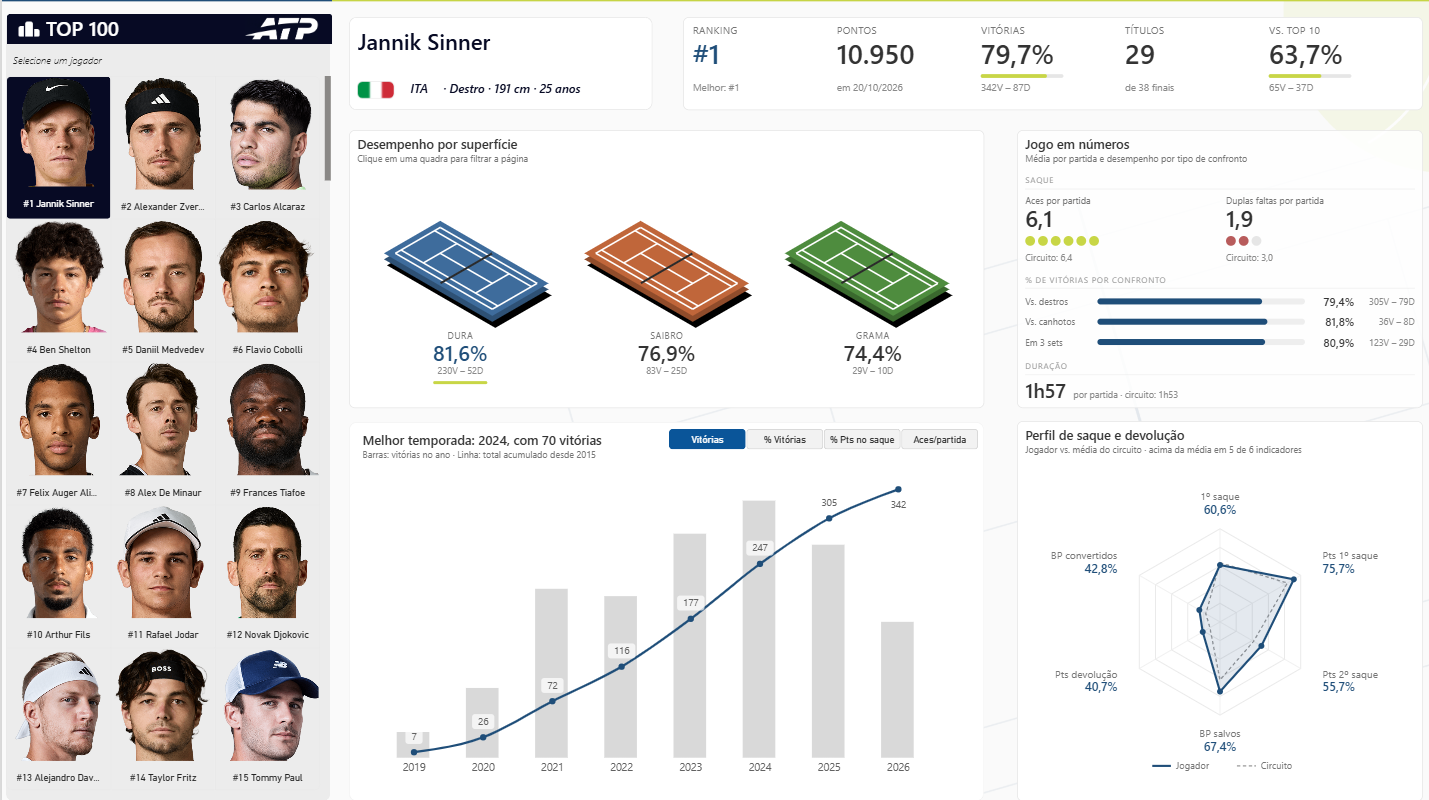
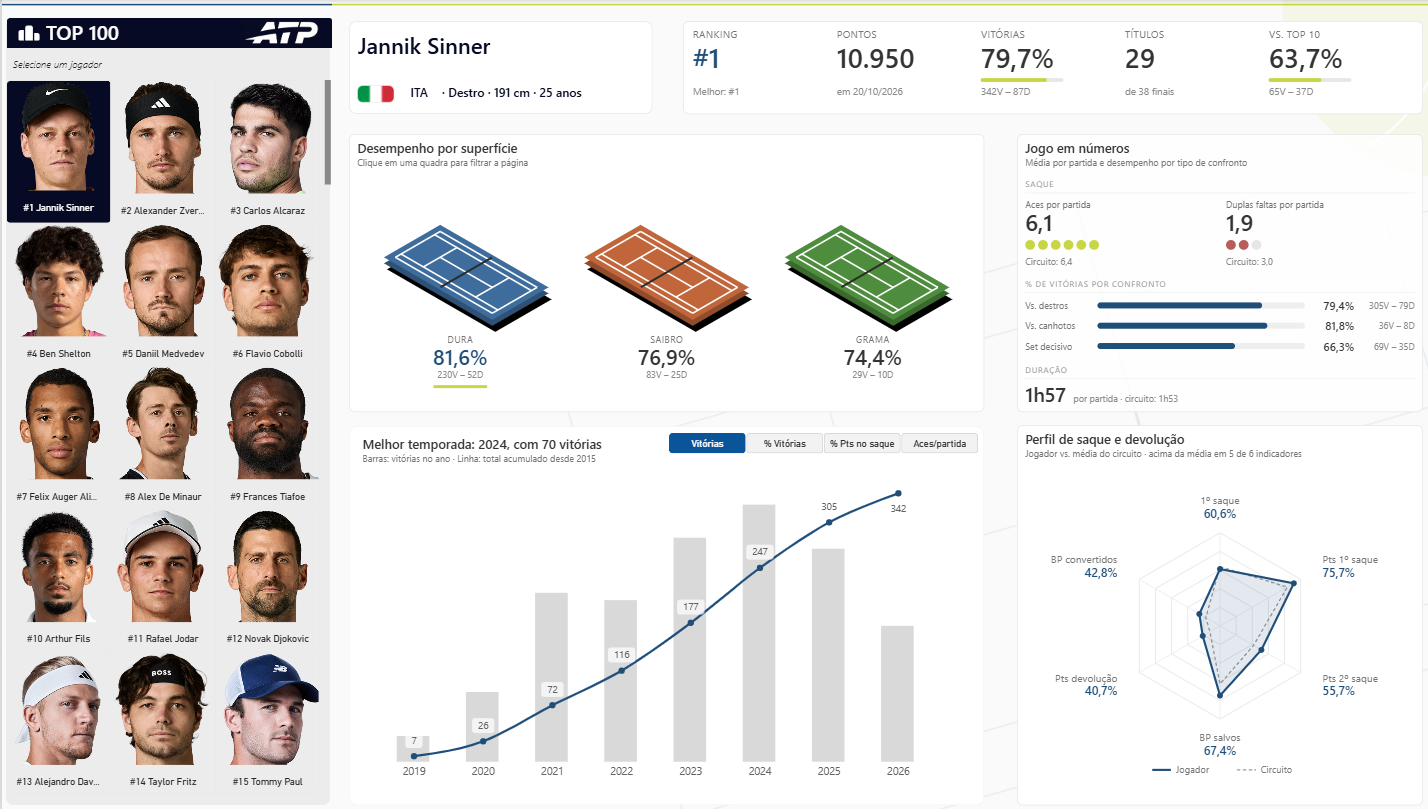
Troca 'em 3 sets' por 'set decisivo' e atualiza o dashboard
- Gold ganha melhor_de e a coluna set_decisivo (3º set em melhor de 3, 5º em melhor de 5)
- Medidas de vitórias/derrotas em sets decisivos substituem as de 3 sets
- d_Rodada inclui a rodada R128 dos Grand Slams
- READMEs e print do dashboard atualizados

Claude-Session: https://claude.ai/code/session_019LZeNctEkZ6zdxPpXWT5qq

diff --git a/README.pt-BR.md b/README.pt-BR.md
@@ -87,7 +87,7 @@ Toda a limpeza é feita na camada Silver, nesta ordem:
     - `Def.` padronizado para `DEF` no placar.
 6. **Valores impossíveis:** durações acima de 300 minutos convertidas em `null` (duas partidas em melhor de 3 registradas com 987 e 1.146 minutos).
 7. **W.O.:** as partidas com W.O. (190) ficam sem duração e sem estatísticas de saque, já que não foram disputadas.
-8. **Perfil da partida:** derivado do placar — forma de término (normal, abandono, W.O., desclassificação), número de sets disputados e número de tie-breaks.
+8. **Perfil da partida:** derivado do placar — forma de término (normal, abandono, W.O., desclassificação), número de sets disputados e número de tie-breaks. Na camada Gold, a coluna `set_decisivo` marca as partidas que foram até o último set possível.
 9. **Nomes das colunas** traduzidos para português em `snake_case` (por exemplo, `w_1stWon` → `pontos_ganhos_primeiro_saque_vencedor`).
 10. **Tipagem:** aplicada no final com uma função de tipagem segura (`fxTipoSeguro`). A data é convertida do formato `yyyyMMdd`, e a idade é lida com a cultura `en-US`, para que `25.5` não vire `255` na localidade `pt-BR`.
 
@@ -97,7 +97,7 @@ Modelo em estrela, com uma tabela fato (uma linha por partida) e as dimensões.
 
 | Tabela | Tipo | Granularidade / conteúdo |
 |---|---|---|
-| `f_Resultados_Gold` | Fato | Uma linha por partida: chaves, placar, duração, ranking/idade/cabeça de chave/entrada/mão dos dois jogadores na data da partida e 18 estatísticas de saque. |
+| `f_Resultados_Gold` | Fato | Uma linha por partida: chaves, placar, duração, formato (melhor de 3 ou 5), indicador de set decisivo, ranking/idade/cabeça de chave/entrada/mão dos dois jogadores na data da partida e 18 estatísticas de saque. |
 | `d_Jogadores` | Dimensão | Uma linha por jogador: nome, mão, altura, país, nome do país e bandeira. |
 | `d_Torneios` | Dimensão | Uma linha por edição de torneio: nome e superfície. |
 | `d_Calendario` | Dimensão | Tabela de datas, de 2014 até o ano atual. |
@@ -131,7 +131,7 @@ O modelo tem 64 medidas. As principais definições:
 | **Títulos / Finais** | Vitórias em finais / finais disputadas. |
 | **% de vitórias contra top 10** | % de vitórias contra adversários que estavam no top 10 **na data da partida**. |
 | **% de vitórias contra destros / canhotos** | % de vitórias de acordo com a mão do adversário. |
-| **% de vitórias em 3 sets** | Partidas terminadas normalmente após exatamente três sets. |
+| **% de vitórias em sets decisivos** | Partidas terminadas normalmente no último set possível: o 3º set em melhor de 3 e o 5º set em melhor de 5. |
 | **% de 1º saque** | Primeiros saques dentro ÷ pontos disputados no saque. |
 | **% de pontos ganhos com o 1º / 2º saque** | Pontos ganhos com o 1º saque ÷ primeiros saques dentro; pontos ganhos com o 2º saque ÷ (pontos disputados no saque − primeiros saques dentro). |
 | **% de pontos ganhos no saque** | (Pontos ganhos com o 1º + 2º saque) ÷ pontos disputados no saque. |
@@ -153,7 +153,7 @@ A página segue a leitura em Z e os princípios do *Storytelling com Dados*: uma
 | **Painel de jogadores** (esquerda) | Grade com as fotos do top 100, em ordem de ranking. Clicar numa foto seleciona o jogador. |
 | **Cabeçalho** | Nome, bandeira, país, mão, altura e idade, além dos KPIs: ranking atual (e o melhor), pontos, % de vitórias com o retrospecto, títulos sobre finais e % de vitórias contra top 10. |
 | **Desempenho por superfície** | Três quadras isométricas clicáveis (dura, saibro e grama). Clicar numa delas filtra a página inteira pela superfície. |
-| **Jogo em números** | Aces e duplas faltas por partida comparados ao circuito, % de vitórias contra destros, contra canhotos e em partidas de 3 sets, e duração média das partidas. |
+| **Jogo em números** | Aces e duplas faltas por partida comparados ao circuito, % de vitórias contra destros, contra canhotos e em sets decisivos, e duração média das partidas. |
 | **Perfil de saque e devolução** | Radar em SVG com seis indicadores do jogador e a média do circuito, além de quantos indicadores estão acima da média. |
 | **Trajetória por temporada** | Colunas com o valor de cada temporada e linha com o valor acumulado da carreira, com seletor: vitórias, % de vitórias, % de pontos ganhos no saque e aces por partida. O título indica a melhor temporada automaticamente. |
 
@@ -200,8 +200,7 @@ A página segue a leitura em Z e os princípios do *Storytelling com Dados*: uma
 - **Duas datas de referência:** as métricas de partidas vão até maio de 2026, e o ranking e os pontos atuais são de 20 de outubro de 2026.
 - **O ranking nas partidas** é o ranking do jogador na data de início do torneio, e não o ranking de fim de temporada.
 - **Estatísticas ausentes:** 136 partidas disputadas não têm estatísticas de saque na fonte; elas ficam fora das métricas de saque pelo denominador "partidas com estatística".
-- **Partidas em 3 sets incluem vitórias diretas em Grand Slams:** nas partidas em melhor de 5, três sets significa vitória sem perder set, e não um set decisivo.
-- **Amostras pequenas:** recortes como adversários canhotos ou partidas em 3 sets podem ter poucas partidas; o retrospecto de vitórias e derrotas sempre aparece ao lado do percentual.
+- **Amostras pequenas:** recortes como adversários canhotos ou sets decisivos podem ter poucas partidas; o retrospecto de vitórias e derrotas sempre aparece ao lado do percentual.
 - **A tabela do top 100 é manual** e precisa ser atualizada à mão quando o ranking mudar.
 - **Toby Samuel** (96º) não tem partidas do circuito principal na base e não aparece no seletor.
 - **Jogadores russos e bielorrussos** competem como atletas neutros no circuito ATP; a base ainda registra o código do país.

diff --git a/README.md b/README.md
@@ -87,7 +87,7 @@ All cleaning happens in the Silver layer, in this order:
     - `Def.` standardized to `DEF` in the score.
 6. **Impossible values:** match durations above 300 minutes set to `null` (two best-of-3 matches recorded at 987 and 1,146 minutes).
 7. **Walkovers:** W.O. matches (190) have their duration and every serve statistic set to `null`, since the match was never played.
-8. **Match profile:** derived from the score — how the match ended (normal, retirement, walkover, default), number of sets played and number of tie-breaks.
+8. **Match profile:** derived from the score — how the match ended (normal, retirement, walkover, default), number of sets played and number of tie-breaks. In the Gold layer, a `set_decisivo` flag marks matches that went to the last possible set.
 9. **Column names** translated to Portuguese in `snake_case` (e.g. `w_1stWon` → `pontos_ganhos_primeiro_saque_vencedor`).
 10. **Data types:** applied at the end with a safe-typing function (`fxTipoSeguro`). The date is converted from `yyyyMMdd`, and age is read with the `en-US` culture so that `25.5` is not read as `255` under the `pt-BR` locale.
 
@@ -97,7 +97,7 @@ Star schema with one fact table (one row per match) and its dimensions.
 
 | Table | Type | Grain / content |
 |---|---|---|
-| `f_Resultados_Gold` | Fact | One row per match: keys, score, duration, both players' rank/age/seed/entry/hand at match time and 18 serve statistics. |
+| `f_Resultados_Gold` | Fact | One row per match: keys, score, duration, best-of format, deciding-set flag, both players' rank/age/seed/entry/hand at match time and 18 serve statistics. |
 | `d_Jogadores` | Dimension | One row per player: name, hand, height, country, country name and flag. |
 | `d_Torneios` | Dimension | One row per tournament edition: name and surface. |
 | `d_Calendario` | Dimension | Date table, 2014 to the current year. |
@@ -131,7 +131,7 @@ The model has 64 measures. The main definitions:
 | **Titles / Finals** | Wins in the final round / finals played. |
 | **Win % vs. top 10** | Win % against opponents ranked in the top 10 **on the match date**. |
 | **Win % vs. right/left-handers** | Win % by the opponent's playing hand. |
-| **Win % in 3-set matches** | Matches that ended normally after exactly three sets. |
+| **Win % in deciding sets** | Matches that ended normally in the last possible set: the 3rd set in best-of-3 and the 5th set in best-of-5. |
 | **1st serve %** | First serves in ÷ service points played. |
 | **1st / 2nd serve points won %** | Points won on 1st serve ÷ first serves in; points won on 2nd serve ÷ (service points − first serves in). |
 | **Service points won %** | (1st + 2nd serve points won) ÷ service points played. |
@@ -153,7 +153,7 @@ The page follows a Z reading pattern and the principles of *Storytelling with Da
 | **Player panel** (left) | A grid with the top 100 headshots, ordered by ranking. Clicking a photo selects the player. |
 | **Header** | Name, flag, country, hand, height and age, plus KPIs: current ranking (and best), points, win % with record, titles out of finals, and win % against the top 10. |
 | **Performance by surface** | Three clickable isometric courts (hard, clay, grass). Clicking one filters the whole page by surface. |
-| **Game in numbers** | Aces and double faults per match vs. the circuit, win % against right- and left-handers and in 3-set matches, and average match duration. |
+| **Game in numbers** | Aces and double faults per match vs. the circuit, win % against right- and left-handers and in deciding-set matches, and average match duration. |
 | **Serve and return profile** | SVG radar with six indicators for the player and the circuit average, plus how many indicators are above average. |
 | **Season trajectory** | Columns for each season and a line for the career-to-date value, with a selector: wins, win %, service points won % and aces per match. The title names the best season automatically. |
 
@@ -200,8 +200,7 @@ The page follows a Z reading pattern and the principles of *Storytelling with Da
 - **Two reference dates:** match-based metrics run until May 2026, while the current ranking and points are from October 20, 2026.
 - **Ranking in the match data** is the player's ranking on the tournament start date, not an end-of-season ranking.
 - **Missing statistics:** 136 played matches have no serve statistics in the source; they are left out of serve metrics through the "matches with statistics" denominator.
-- **3-set matches include Grand Slam straight-set matches:** in best-of-5 matches, three sets means a straight-set result, not a deciding set.
-- **Small samples:** splits such as left-handed opponents or 3-set matches can rely on few matches; the win-loss record is always shown next to the percentage.
+- **Small samples:** splits such as left-handed opponents or deciding sets can rely on few matches; the win-loss record is always shown next to the percentage.
 - **Top 100 table is manual** and needs to be updated by hand when the ranking changes.
 - **Toby Samuel** (no. 96) has no tour-level matches in the data and does not appear in the selector.
 - **Russian and Belarusian players** compete as neutral athletes on the ATP Tour; the data still records their country codes.
